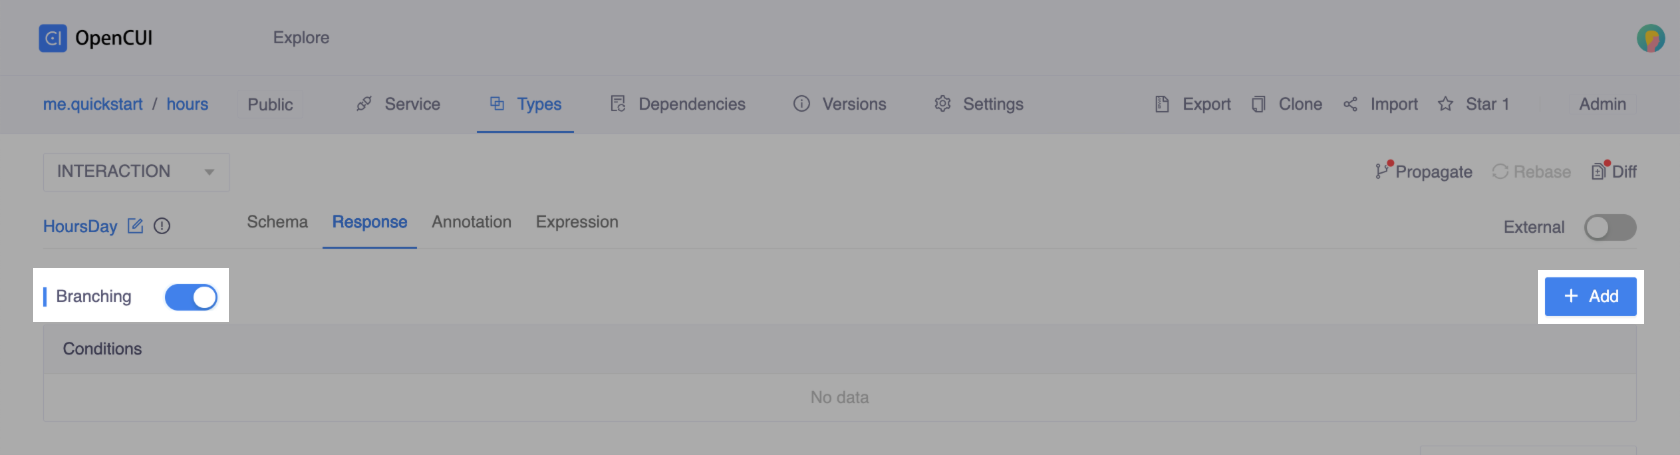
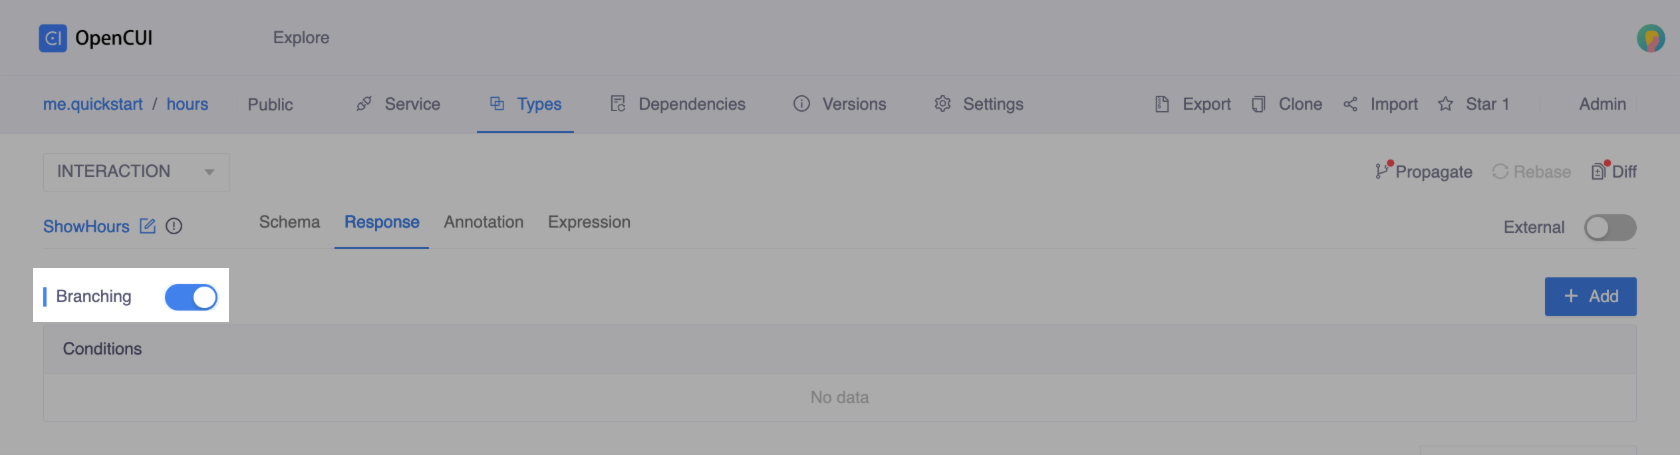
update build-service.md

Changed region(s): [[0.1548, 0.4615, 0.3714, 0.5231], [0.8976, 0.5846, 0.9905, 0.7385], [0.031, 0.4615, 0.1238, 0.5231]]

diff --git a/docs/guide/build-service.md b/docs/guide/build-service.md
@@ -88,75 +88,89 @@ OpenCUI allow you to use [annotations](../reference/annotations/overview.md) to 
 #### Create skills
 To expose a functionality through conversational user interface, we need to define a skill. A skill is essentially a function that a user can trigger through conversations. The input parameters of function are captured by skill's slots and the response can be defined in its response section.
 
-You can use two different skills to manage users' questions on business hours with and without a specific date. To create skills:
+To create a skill to manage users' questions on business hours with and without a specific date:
 
 1. Within the module hours, go to **Types** page, click **Create** on the right side, and select **Create skill**.
-2. Enter _HoursWeek_ as the skill label. This skill provides business hours in a week.
-3. Back to the **Types** page, create another skill: _HoursDay_. This skill provides business hours on a specific day.
-4. To get a specific day from a user, use [DatePicker](../reference/plugins/components/datepicker). DatePicker is an official CUI component, so you need to import [components](https://build.opencui.io/org/io.opencui/agent/components/struct/frame/63c8aea6517f06c1880e3cff) to the module hours first.
-5. After successful import, go back to module hours and refresh your webpage.
-6. In the skill **HoursDay**, add a slot with type **io.opencui.components.dataEntry.DatePicker**.
+2. Enter _ShowHours_ as the skill label. 
+3. To get a specific day from a user, use [DatePicker](../reference/plugins/components/datepicker). DatePicker is an official CUI component, so you need to import [components](https://build.opencui.io/org/io.opencui/agent/components/struct/frame/63c8aea6517f06c1880e3cff) to the module hours first.
+4. After successful import, go back to module hours and refresh your webpage.
+5. In the skill **ShowHours**, add a slot with type **io.opencui.components.dataEntry.DatePicker**.
 
 #### Add the service
 To access the functions in the service, you need to add the service first:
-1. Go to the skill **HoursWeek** page, in the **Services** section, click **Select service** and select **IHours**. Leave the **Service label** as default and click **Save**.
-   
-   ::: thumbnail
-   ![add service](/images/guide/build-service/add-service.png)
-   :::
 
-2. Follow the same steps to declare the service for skill **HoursDay**.
+Go to the skill **ShowHours** page, in the **Services** section, click **Select service** and select **IHours**. Leave the **Service label** as default and click **Save**.
+   
+::: thumbnail
+![add service](/images/guide/build-service/add-service.png)
+:::
+
 
 #### Define interactions
-When a user triggers a skill, the bot follows the interactions based on the annotation you attached to the skill. For skill HoursWeek, the bot should display business hours in a week. For skill HoursDay, on the date the user asks for, if it's open, the bot should show the business hours on that day. If not, the bot should inform the user it's closed.
+When a user triggers a skill, the bot follows the interactions based on the annotation you attached to the skill. When the user doesn't mention a specific date, the bot should display business hours in a week. When the user provides a date, if it's open, the bot should show the business hours on that day. If not, the bot should inform the user it's closed.
 
 To annotate interactions:
-1. Go to the skill **HoursWeek** page, navigate to the **Response** tab, and select **Multiple value message** under the **Default action** section. In the **Source** section, copy and paste the following code:
+
+1. Go to the skill **ShowHours** page, since the date is provided by a user spontaneously, the bot doesn't need to ask for the date value. Enter the slot **datePicker** and change **Fill Strategy** to [Recover only](../reference/annotations/fillstrategy.md#recover-only).
+2. To display business hours in a week:
+   - Navigate to the **Response** tab and select **Multiple value message** under the **Default action** section. 
+   - In the **Source** section, copy and paste the following code:
    ``` kotlin
    hours.getHoursWeek()
    ```
-
-2. Go to the skill **HoursDay** page, since the date is provided by a user spontaneously, the bot doesn't need to ask for the date value. Enter the slot **datePicker** and change **Fill Strategy** to [Recover only](../reference/annotations/fillstrategy.md#recover-only).
-3. Navigate to the **Response** tab and select **Single value message** under the **Default action** section to display the business hours on that day.
-4. Still, under the **Response** tab, turn on **Branching** and click **Add**.
+3. To handle the situation when the user provides a date, under the **Response** tab, turn on **Branching**.
 
    ::: thumbnail
    ![add a branch](/images/guide/build-service/branching.png)
    :::
 
-5. In the **Conditions** section, copy and paste the following code:
+4. To show the business hours on a user-mentioned date:
+   - In the **Branching** section, click **Add**.
+   - In the **Conditions** section, copy and paste the following code:
    ```kotlin
-   hours.getHoursDay(datePicker!!.date!!).ifOpen == false
+   datePicker?.date != null && hours.getHoursDay(datePicker!!.date!!).ifOpen == true
+   ```
+   - In the **Action sequence** section, select **Single value message**.
+
+5. To inform the user it's closed on a user-mentioned date:
+   - Back to the **Response** tab, in the **Branching** section, click **Add**. 
+   - In the **Conditions** section, copy and paste the following code:
+   ```kotlin
+   datePicker?.date != null && hours.getHoursDay(datePicker!!.date!!).ifOpen == false
    ```
 
-6. In the **Action sequence** section, select **Single value message** and **Skill start**. Then, Select **HoursWeek** in the **Skill start** action.
-   - **Single value message** is to inform the user it's closed on that day.
-   - **Skill start** is used to start skill HoursWeek to provide business hours in a week, so the user knows other options.
+   - In the **Action sequence** section, select **Single value message** and **Multiple value message**.
+     - **Single value message** is to inform the user it's closed on that day.
+     - **Multiple value message** is display business hours in a week, so the user can get additional information to make a choice.
 
 #### Add templates and exemplars
 Both templates are exemplars are language dependent, and you have to set them up for each interactable type and each language you support. OpenCUI allow you to define templates and exemplars in a context dependent way. Depending on which input box you use to define them, they are used differently. You can use arbitrary kotlin expression in template directly, in exemplars, you can only reference slot.
 
 Before you start, make sure you **propagate** all the changes you made in the interaction layer to the language layer and switch from the INTERACTION layer to the **EN** layer.
 
-Go to the skill **HoursWeek** page.
-1. Under the **Response** tab, copy and paste the following content:
-   - **Header**: Our business hours in a week are
-   - **Body**:
-      - ${`it.value.dayOfWeek!!.expression()`}
-      - ${`if (it.value.ifOpen == true) it.value.openingTime!!.expression() + " – " + it.value.closingTime!!.expression() else "Closed"`}
-2. Under the **Expressions** tab, copy and paste the following content:
-   - **Names**: hours in a week
-   - **Expressions**: When do you open?
+1. Go to the skill **ShowHours** page. Under the **Schema** tab, in the **Slots** section, click the slot **datePicker**. Enter _date_ in the **Names** field.
+2. Under the **Response** tab, in the **Default action** filed. In the **Multiple value message** section, enter the following content:
+     - **Header**: Our business hours in a week are
+     - **Body**:
+        - ${`it.value.dayOfWeek!!.expression()`}
+        - ${`if (it.value.ifOpen == true) it.value.openingTime!!.expression() + " – " + it.value.closingTime!!.expression() else "Closed"`}
+3. Under the **Response** tab, in the **Branching** filed, click the first branch. 
+   - In the **Single value message** section, enter this: We are open on ${`datePicker!!.date!!.expression()`} from ${`hours.getHoursDay(datePicker!!.date!!).openingTime!!.expression()`} to ${`hours.getHoursDay(datePicker!!.date!!).closingTime!!.expression()`}.
+4. Back to the **Branching** filed, click the second branch. 
+   - In the **Single value message** section, enter this: Sorry, but we don't open on ${`datePicker!!.date!!.expression()`}.
+   - In the **Multiple value message** section, enter the following content:
+     - **Header**: Our business hours in a week are
+     - **Body**:
+        - ${`it.value.dayOfWeek!!.expression()`}
+        - ${`if (it.value.ifOpen == true) it.value.openingTime!!.expression() + " – " + it.value.closingTime!!.expression() else "Closed"`}
 
-Go to the skill **HoursDay** page.
-1. Under the **Schema** tab, in the **Slots** section, click the slot **datePicker**. Enter _date_ in the **Names** field.
-2. Under the **Response** tab
-   - In the **Single value message** section, copy and paste this: We are open on ${`datePicker!!.date!!.expression()`} from ${`hours.getHoursDay(datePicker!!.date!!).openingTime!!.expression()`} to ${`hours.getHoursDay(datePicker!!.date!!).closingTime!!.expression()`}.
-   - Enter the branch. In the **Single value message** section, copy and paste this: Sorry, but we don't open on ${`datePicker!!.date!!.expression()`}.
-3. Under the **Expressions** tab
-   - Type _hours on a day_ in the **Names** field.
-   - Type _Do you open  $datePicker$?_ in the **Expressions** field.
 
+5. Under the **Expressions** tab, enter the following content:
+   - **Names**: show hours
+   - **Expressions**: 
+      - When do you open?
+      - _Do you open  $datePicker$?_
+     
 ::: warning Attention
 Do **NOT** copy and paste the value wrapped by `$`, please type the value instead.
 :::
